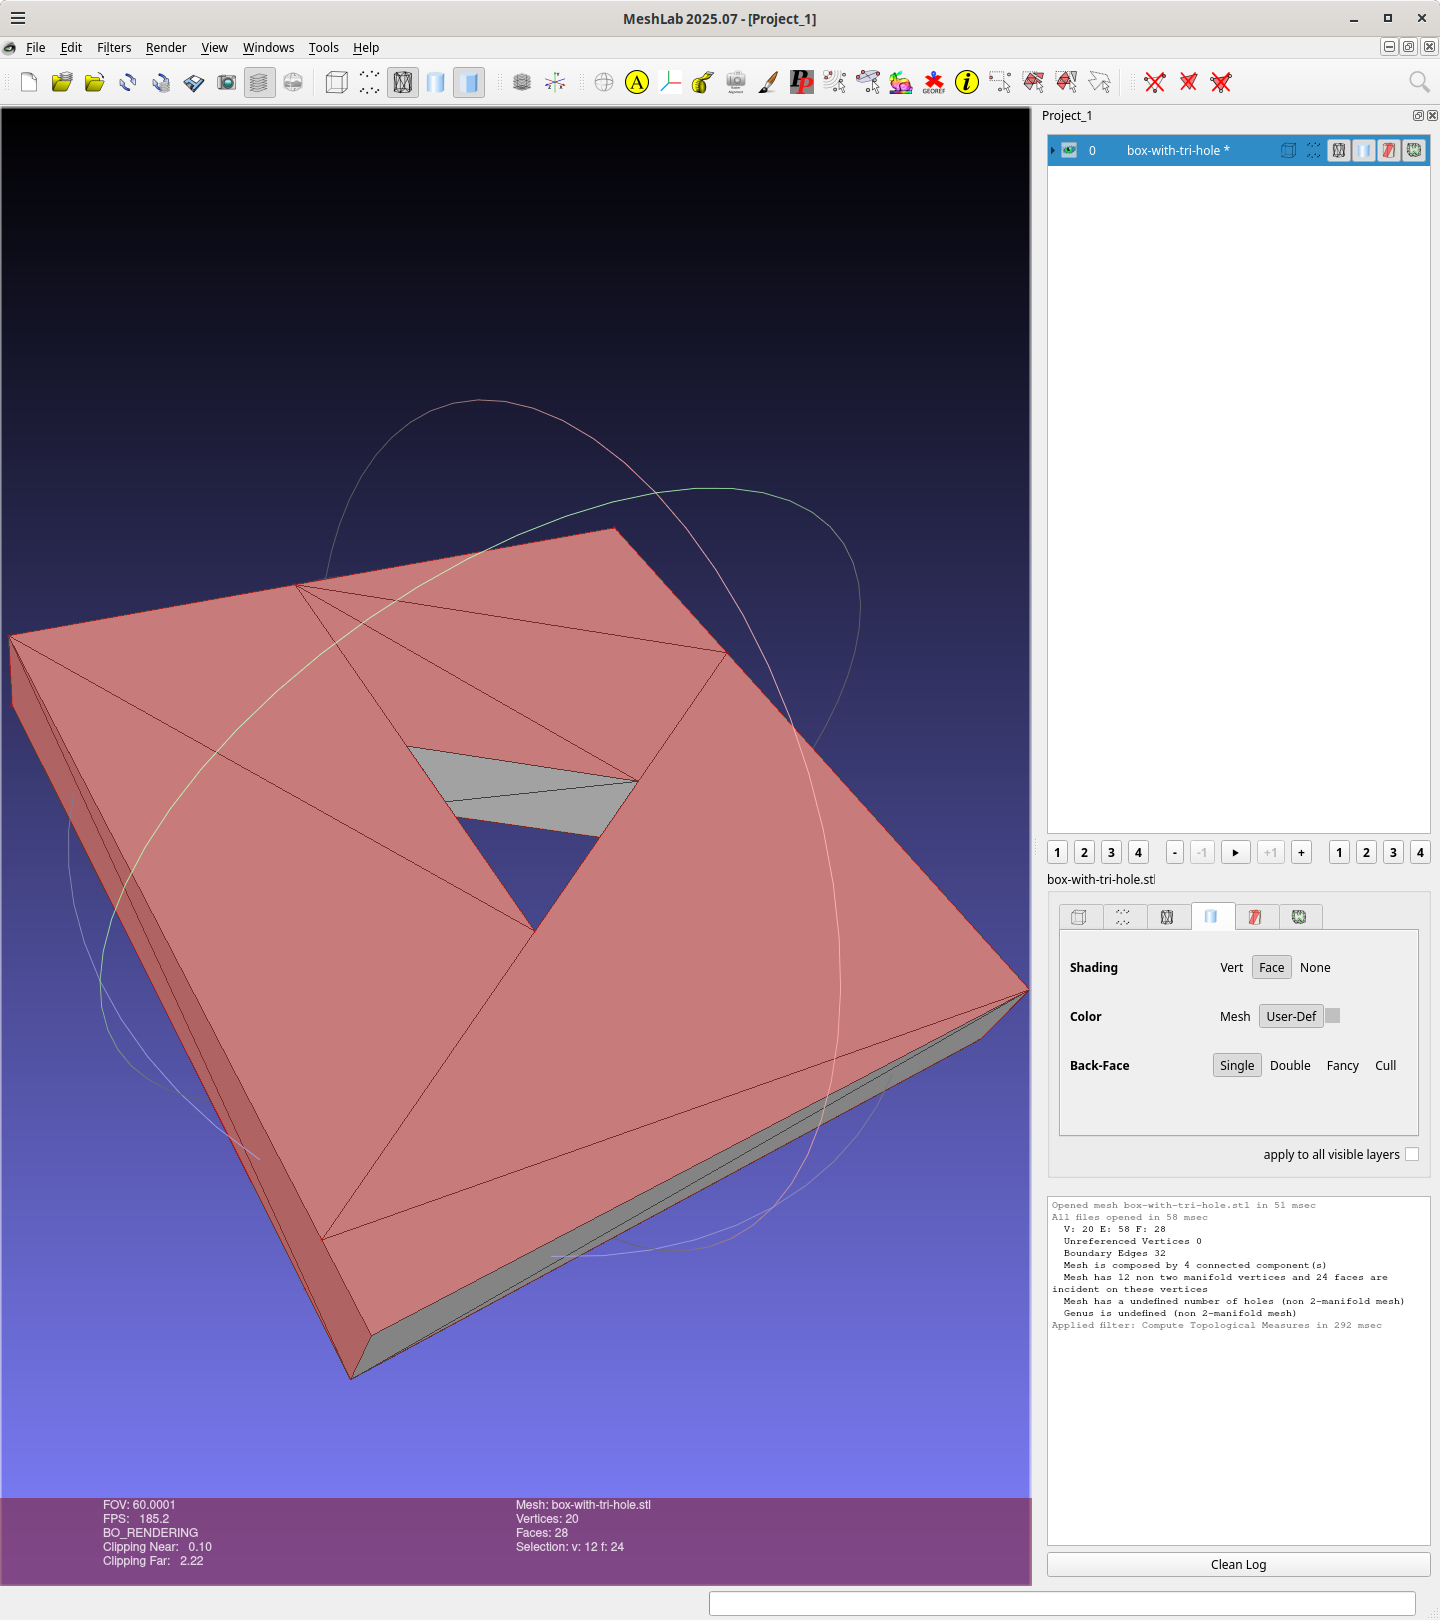
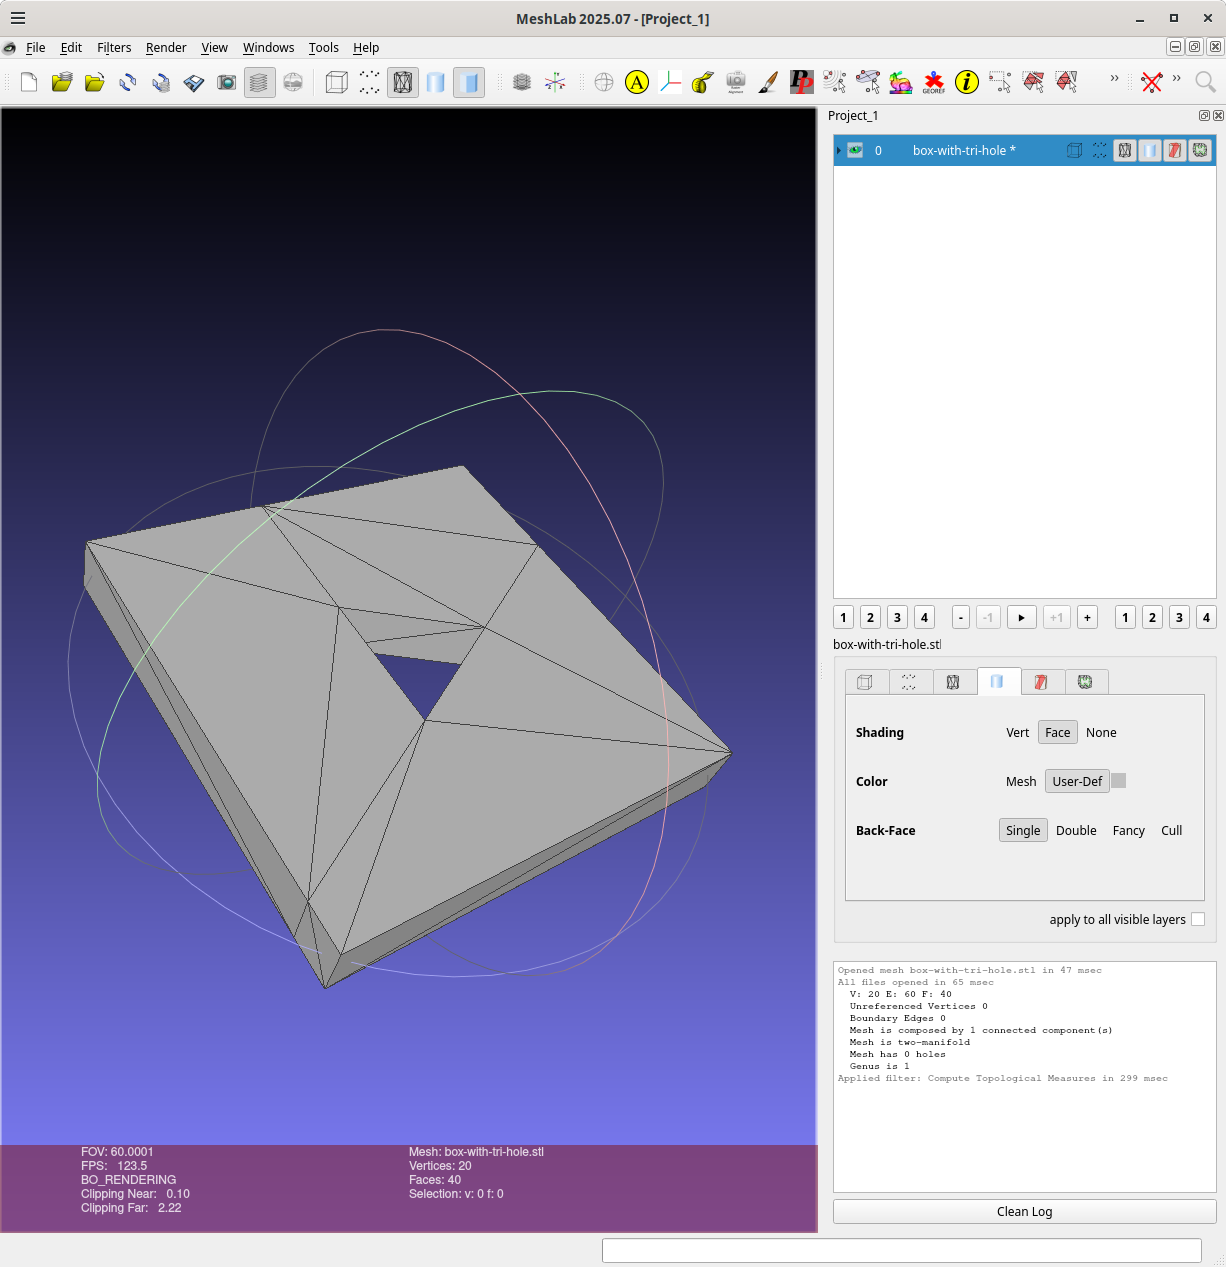
feat: Update csgrs to use latest code on main
It now creates a "perfect" mesh from meshlab "Compute Topological Measures"
PoV!

diff --git a/csgrs/README.md b/csgrs/README.md
@@ -11,50 +11,49 @@ The src/main.rs is based on [csgrs-holed-cuboid](https://git@github.com:winksavi
 
 Here I'm running after having done a clean and it creates `box-with-tri-hole.stl`:
 ```
-wink@3900x 25-11-28T19:42:46.814Z:~/data/prgs/3dprinting/box-with-tri-hole/csgrs (main)
+wink@3900x 25-12-05T19:34:19.372Z:~/data/prgs/3dprinting/box-with-tri-hole/csgrs (main)
 $ cargo clean
-     Removed 4313 files, 1.7GiB total
-wink@3900x 25-11-28T19:43:04.388Z:~/data/prgs/3dprinting/box-with-tri-hole/csgrs (main)
-$ cargo run --release
+     Removed 3857 files, 1.9GiB total
+wink@3900x 25-12-05T19:34:26.550Z:~/data/prgs/3dprinting/box-with-tri-hole/csgrs (main)
+$ cargo build
+    Updating git repository `https://github.com/timschmidt/csgrs.git`
+     Locking 1 package to latest Rust 1.91.1 compatible version
+      Adding csgrs v0.20.1 (https://github.com/timschmidt/csgrs.git?branch=main#e48439d9)
    Compiling proc-macro2 v1.0.103
    Compiling unicode-ident v1.0.22
-   Compiling quote v1.0.42
-   Compiling autocfg v1.5.0
-   Compiling libm v0.2.15
 ..
 
-   Compiling geo-buf v0.1.0
-   Compiling parry3d-f64 v0.19.0
    Compiling rapier3d-f64 v0.24.0
-   Compiling csgrs v0.20.1 (https://github.com/timschmidt/csgrs.git?rev=278e0254d2c8bfffe2e9021fd8120dd9ee1f60bb#278e0254)
+   Compiling csgrs v0.20.1 (https://github.com/timschmidt/csgrs.git?branch=main#e48439d9)
    Compiling box-with-tri-hole v0.1.0 (/home/wink/data/prgs/3dprinting/box-with-tri-hole/csgrs)
-    Finished `release` profile [optimized] target(s) in 11.80s
-     Running `target/release/box-with-tri-hole`
-Writing file: box-with-tri-hole.stl
-wink@3900x 25-11-28T19:43:32.004Z:~/data/prgs/3dprinting/box-with-tri-hole/csgrs (main)
+    Finished `dev` profile [unoptimized + debuginfo] target(s) in 23.97s
+wink@3900x 25-12-05T19:34:53.524Z:~/data/prgs/3dprinting/box-with-tri-hole/csgrs (main)
 ```
 
 Using meshlab to inspect the object using menus
 [filters -> Quality Measures and Computations -> Compute Topological Measures]
-and the result is imperfect :(
+and the result is perfect!
 ```
-wink@3900x 25-11-28T20:20:29.005Z:~/data/prgs/3dprinting/box-with-tri-hole/csgrs (main)
-$ meshlab box-with-tri-hole.stl 
+wink@3900x 25-12-05T19:35:28.381Z:~/data/prgs/3dprinting/box-with-tri-hole/csgrs (main)
+$ meshlab box-with-tri-hole.stl
 Using OpenGL 4.6
-LOG: 0 Opened mesh box-with-tri-hole.stl in 51 msec
-LOG: 0 All files opened in 58 msec
-LOG: 2 V:     20 E:     58 F:    28
+LOG: 0 Opened mesh box-with-tri-hole.stl in 47 msec
+LOG: 0 All files opened in 65 msec
+"OpenSSL 3.6.0 1 Oct 2025"
+"OpenSSL 3.6.0 1 Oct 2025"
+Online version: 2025.07
+LOG: 2 V:     20 E:     60 F:    40
 LOG: 2 Unreferenced Vertices 0
-LOG: 2 Boundary Edges 32
-LOG: 2 Mesh is composed by 4 connected component(s)
+LOG: 2 Boundary Edges 0
+LOG: 2 Mesh is composed by 1 connected component(s)
 
-LOG: 2 Mesh has 12 non two manifold vertices and 24 faces are incident on these vertices
-
-LOG: 2 Mesh has a undefined number of holes (non 2-manifold mesh)
-LOG: 2 Genus is undefined (non 2-manifold mesh)
-LOG: 0 Applied filter: Compute Topological Measures in 292 msec
+LOG: 2 Mesh is two-manifold 
+LOG: 2 Mesh has 0 holes
+LOG: 2 Genus is 1
+LOG: 0 Applied filter: Compute Topological Measures in 299 msec
 ^C
-wink@3900x 25-11-28T20:22:11.671Z:~/data/prgs/3dprinting/box-with-tri-hole/csgrs (main)
+wink@3900x 25-12-05T19:38:48.855Z:~/data/prgs/3dprinting/box-with-tri-hole/csgrs (main)
+
 ```
 
 Here is a png:
@@ -62,56 +61,54 @@ Here is a png:
 
 ## Binary
 
-The binary is 532,552 bytes:
+The binary is 548,536 bytes:
 ```
-wink@3900x 25-11-28T19:43:32.004Z:~/data/prgs/3dprinting/box-with-tri-hole/csgrs (main)
+wink@3900x 25-12-05T19:42:00.647Z:~/data/prgs/3dprinting/box-with-tri-hole/csgrs (main)
 $ ls -l target/release/box-with-tri-hole
--rwxr-xr-x 2 wink users 532552 Nov 28 11:43 target/release/box-with-tri-hole
-wink@3900x 25-11-28T19:45:43.871Z:~/data/prgs/3dprinting/box-with-tri-hole/csgrs (main)
+-rwxr-xr-x 2 wink users 548536 Dec  5 11:42 target/release/box-with-tri-hole
+wink@3900x 25-12-05T19:42:19.628Z:~/data/prgs/3dprinting/box-with-tri-hole/csgrs (main)
 ```
 
 Bloat info on the binary crates:
 ```
-$ cargo bloat --crates
-   Compiling either v1.15.0
-   Compiling stable_deref_trait v1.2.1
-   Compiling cfg-if v1.0.4
-   Compiling log v0.4.28
-   Compiling smallvec v1.15.1
+wink@3900x 25-12-05T19:43:19.037Z:~/data/prgs/3dprinting/box-with-tri-hole/csgrs (main)
+$ cargo  bloat
+   Compiling proc-macro2 v1.0.103
+   Compiling unicode-ident v1.0.22
+   Compiling quote v1.0.42
+   Compiling autocfg v1.5.0
 ..
-   Compiling dxf v0.6.0
+   Compiling parry3d-f64 v0.19.0
    Compiling rapier3d-f64 v0.24.0
-   Compiling csgrs v0.20.1 (https://github.com/timschmidt/csgrs.git?rev=278e0254d2c8bfffe2e9021fd8120dd9ee1f60bb#278e0254)
+   Compiling csgrs v0.20.1 (https://github.com/timschmidt/csgrs.git?branch=main#e48439d9)
    Compiling box-with-tri-hole v0.1.0 (/home/wink/data/prgs/3dprinting/box-with-tri-hole/csgrs)
-    Finished `dev` profile [unoptimized + debuginfo] target(s) in 20.01s
+    Finished `dev` profile [unoptimized + debuginfo] target(s) in 24.51s
     Analyzing target/debug/box-with-tri-hole
 
-File  .text     Size Crate
-0.4%  34.7% 399.6KiB std
-0.2%  18.2% 210.0KiB matrixmultiply
-0.2%  16.4% 189.1KiB parry3d_f64
-0.2%  15.3% 176.0KiB csgrs
-0.0%   4.6%  53.3KiB robust
-0.0%   2.6%  29.4KiB nalgebra
-0.0%   1.6%  17.9KiB geo
-0.0%   1.3%  15.2KiB geo_buf
-0.0%   0.8%   9.2KiB miniz_oxide
-0.0%   0.4%   4.9KiB stl_io
-0.0%   0.2%   2.7KiB spade
-0.0%   0.2%   2.4KiB nom
-0.0%   0.1%   1.6KiB rapier3d_f64
-0.0%   0.1%   1.4KiB i_overlay
-0.0%   0.1%   1.3KiB box_with_tri_hole
-0.0%   0.1%   1.3KiB itertools
-0.0%   0.1%     995B adler2
-0.0%   0.1%     976B geo_types
-0.0%   0.1%     928B image
-0.0%   0.1%     894B memchr
-0.0%   0.6%   6.6KiB And 21 more crates. Use -n N to show more.
-1.0% 100.0%   1.1MiB .text section size, the file size is 110.5MiB
-
-Note: numbers above are a result of guesswork. They are not 100% correct and never will be.
-wink@3900x 25-11-29T00:11:24.251Z:~/data/prgs/3dprinting/box-with-tri-hole/csgrs (main)
+File  .text     Size          Crate Name
+0.1%   5.0%  61.9KiB          csgrs nalgebra::linalg::inverse::do_inverse4
+0.0%   2.2%  27.9KiB         robust robust::incircleadapt
+0.0%   1.4%  17.8KiB matrixmultiply matrixmultiply::dgemm_kernel::kernel_target_avx
+0.0%   1.4%  17.0KiB matrixmultiply matrixmultiply::dgemm_kernel::kernel_target_fma
+0.0%   1.3%  15.5KiB            std std::backtrace_rs::symbolize::gimli::Cache::with_global
+0.0%   1.1%  13.9KiB matrixmultiply matrixmultiply::sgemm_kernel::kernel_target_avx
+0.0%   1.1%  13.5KiB         robust robust::orient3dadapt
+0.0%   1.1%  13.1KiB matrixmultiply matrixmultiply::sgemm_kernel::kernel_target_fma
+0.0%   1.0%  12.6KiB            std std::backtrace_rs::symbolize::gimli::Context::new
+0.0%   1.0%  11.9KiB          csgrs nalgebra::linalg::inverse::<impl nalgebra::base::matrix::Matrix<T,D,D,S>>::try_inverse_mut
+0.0%   0.8%   9.8KiB    parry3d_f64 nalgebra::base::blas::<impl nalgebra::base::matrix::Matrix<T,R,C,S>>::dotc
+0.0%   0.8%   9.8KiB    parry3d_f64 nalgebra::base::blas::<impl nalgebra::base::matrix::Matrix<T,R,C,S>>::dot
+0.0%   0.8%   9.5KiB            std gimli::read::dwarf::Unit<R>::new
+0.0%   0.7%   9.1KiB            std core::cell::once::OnceCell<T>::try_init
+0.0%   0.6%   7.7KiB       nalgebra nalgebra::base::ops::<impl core::ops::arith::Mul<&nalgebra::base::matrix::Matrix<T,R2,C2,SB>> for &nalgebra::b...
+0.0%   0.6%   7.7KiB       nalgebra nalgebra::base::ops::<impl core::ops::arith::Mul<&nalgebra::base::matrix::Matrix<T,R2,C2,SB>> for &nalgebra::b...
+0.0%   0.5%   6.8KiB          csgrs csgrs::mesh::shapes::<impl csgrs::mesh::Mesh<S>>::cuboid
+0.0%   0.5%   6.5KiB    miniz_oxide miniz_oxide::inflate::core::decompress
+0.0%   0.4%   5.3KiB          csgrs csgrs::mesh::shapes::<impl csgrs::mesh::Mesh<S>>::frustum_ptp
+0.0%   0.4%   5.1KiB            std gimli::read::unit::parse_attribute
+0.8%  75.0% 931.8KiB                And 4074 smaller methods. Use -n N to show more.
+1.1% 100.0%   1.2MiB                .text section size, the file size is 113.4MiB
+wink@3900x 25-12-05T19:43:47.585Z:~/data/prgs/3dprinting/box-with-tri-hole/csgrs (main)
 ```
 
 ## License

diff --git a/README.md b/README.md
@@ -22,8 +22,9 @@ Obvoiusly FreeCAD was completely GUI based and can't really compare directly
 toi csgrs and fornjot which are code based.
 
 Between csgrs and fornjot I found csgrs was simpler, but that also could
-because I'm more familiar with it. But fornjot and FreeCAD both created
-"perfect" meshes as opposed to csgrs which had some issues.
+because I'm more familiar with it. All three created "perfect" meshes
+as measured using meshlab "Compute Topological Measures",
+this is not always the case.
 
 Another interesting comparision was the build sizes between fornjot and csgrs.
 fornjot's release build was 10MB while csgrs was 0.5MB. The primary reason is
